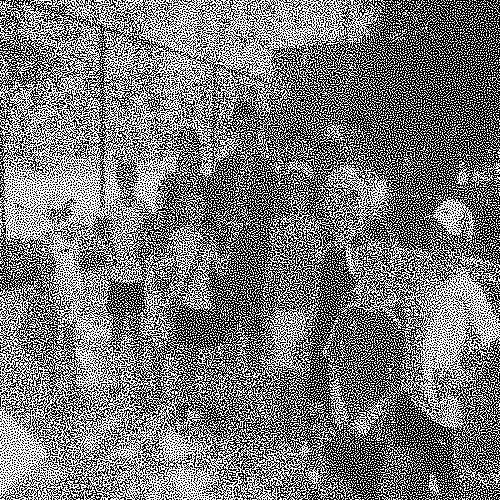
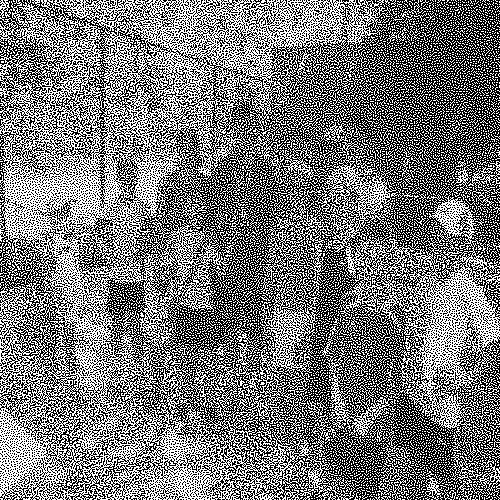
new gif

diff --git a/utils.py b/utils.py
@@ -21,8 +21,16 @@ def read_image(path, resize=None, binary=False):
     if binary:
         # img[img > 0.5] = 1.0
         # img[img <= 0.5] = 0.0
+        # std_dev = sigma(img, filter_size=9)
+        # ref = np.zeros(std_dev.shape)
+        # ref[np.abs(std_dev)<0.03] = 255
+        # cv2.imwrite('ref.png', ref)
+        
         img = error_diffusion(img*255)
+        ref = np.ones(img.shape) * 255
+        img = median_filter(img, ref, filter_size=3)
         cv2.imwrite('halftone_secret.png', img*255)
+        raise
     return img
 
 def save_image(path, img):
@@ -43,3 +51,24 @@ def decode_shares(share1, share2):
     decode[decode==2] = 1
     # decode = np.logical_not(np.logical_xor(share1, share2)).astype(float)
     return decode
+
+def median_filter(img, ref, filter_size=3):
+    img_padded = np.pad(img,  [(int((filter_size-1)/2),int((filter_size-1)/2)),(int((filter_size-1)/2),int((filter_size-1)/2))], 'symmetric')
+    output = img
+    y_start, y_end = int((filter_size-1)/2), int(img.shape[0]+(filter_size-1)/2)
+    x_start, x_end = int((filter_size-1)/2), int(img.shape[1]+(filter_size-1)/2)
+    for i in range(y_start, y_end):
+        for j in range(x_start, x_end):
+            if ref[i-y_start, j-x_start] == 255:
+                output[i-y_start, j-x_start] = np.median(img_padded[i-y_start:i+y_start+1, j-y_start:j+y_start+1])
+    return output
+
+def sigma(img, filter_size=3):
+    img_padded = np.pad(img,  [(int((filter_size-1)/2),int((filter_size-1)/2)),(int((filter_size-1)/2),int((filter_size-1)/2))], 'symmetric')
+    output = np.zeros(img.shape)
+    y_start, y_end = int((filter_size-1)/2), int(img.shape[0]+(filter_size-1)/2)
+    x_start, x_end = int((filter_size-1)/2), int(img.shape[1]+(filter_size-1)/2)
+    for i in range(y_start, y_end):
+        for j in range(x_start, x_end):
+            output[i-y_start, j-x_start] = np.std(img_padded[i-y_start:i+y_start+1, j-y_start:j+y_start+1])
+    return output

diff --git a/make_gif.py b/make_gif.py
@@ -3,7 +3,7 @@ import numpy as np
 from PIL import Image
 from utils import decode_shares
 
-def make_gif(share1, share2):
+def make_gif(share1, share2, file_name):
     share = [share1, share2]
     cv2.imwrite('tmp.png', decode_shares(share[0], share[1]))
     shape = (share1.shape[0],share1.shape[1]*2)
@@ -36,15 +36,15 @@ def make_gif(share1, share2):
     gif = np.concatenate(gif)
     print(gif.shape)
     gif = [Image.fromarray(frame*255) for frame in gif]
-    gif[0].save("./figures/demo.gif", save_all=True, append_images=gif[1:], duration=20, loop=3)
+    gif[0].save(file_name, save_all=True, append_images=gif[1:], duration=20, loop=3)
 
 if __name__ == '__main__':
     share1 = cv2.imread('/home/u/woody8657/projs/HVC-VAC_Authentication/coco_test/outputs/share1.png', cv2.IMREAD_GRAYSCALE)
-    share2 = cv2.imread('/home/u/woody8657/projs/HVC-VAC_Authentication/coco_test/outputs/share20.png', cv2.IMREAD_GRAYSCALE)
+    share2 = cv2.imread('/home/u/woody8657/projs/HVC-VAC_Authentication/coco_test/outputs/share21.png', cv2.IMREAD_GRAYSCALE)
     share1 = share1/255
     share2 = share2/255
     # share1 = hvc_vac.halftone(share1, 0, resample_range=(0.35, 0.65))
     # image = image * np.abs(np.subtract(resample_range[1], resample_range[0])) + resample_range[0]
     # halftone_img = np.zeros(image.shape)
     # halftone_img[image > self.TAs[index]] = 1.0
-    make_gif(share1, share2)
+    make_gif(share1, share2, "./figures/demo2.gif")

diff --git a/main.py b/main.py
@@ -1,5 +1,6 @@
 import os
 import argparse
+import glob
 import numpy as np
 from HVC_VAC import HVC_VAC
 from utils import read_image, decode_shares, save_image
@@ -21,7 +22,8 @@ def whole_process(args):
     # Load images
     fingerprint = read_image(args.fingerprint, resize=args.shape, binary=True)
     signature = read_image(args.signature, resize=args.shape)
-    messages = [args.message]
+    # messages = [args.message]
+    messages = glob.glob(os.path.join(args.message, '*'))
     messages = [read_image(p, resize=args.shape) for p in messages]
     messages_num = len(messages)
 

diff --git a/README.md b/README.md
@@ -3,7 +3,8 @@ A halftone visual cryptography based on void-and-cluster dithering
 
 ## Description
 
-![](./figures/demo.gif)
+![](./figures/demo1.gif)
+![](./figures/demo2.gif)
 ![](./figures/algorithm.jpg)
 
 Here we implement the HVC-VAC algorithm proposed in [1]. We also proposed a authentication scheme based on the HVC-VAC algorithm. Check out the notebook for more details.
